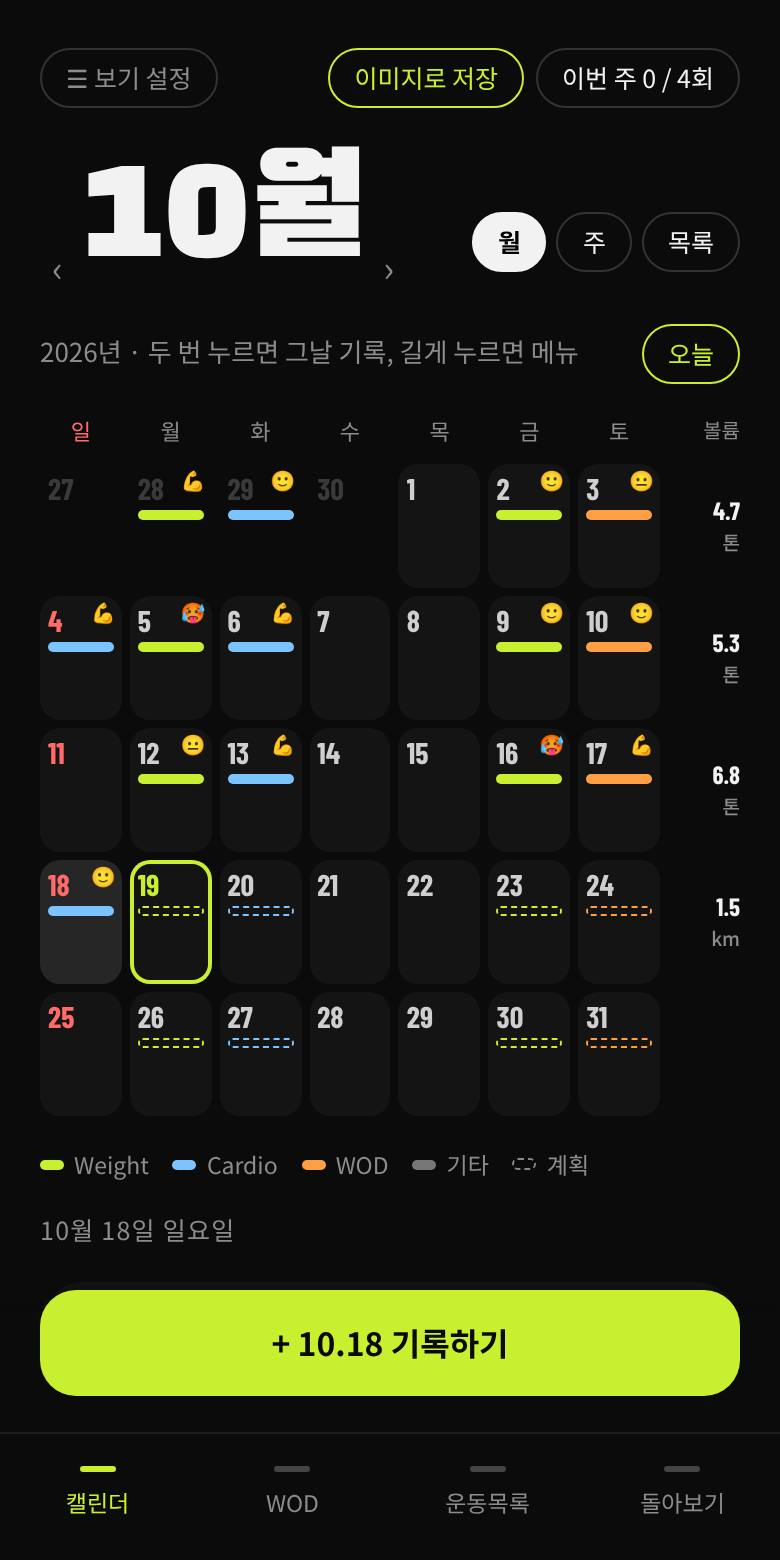
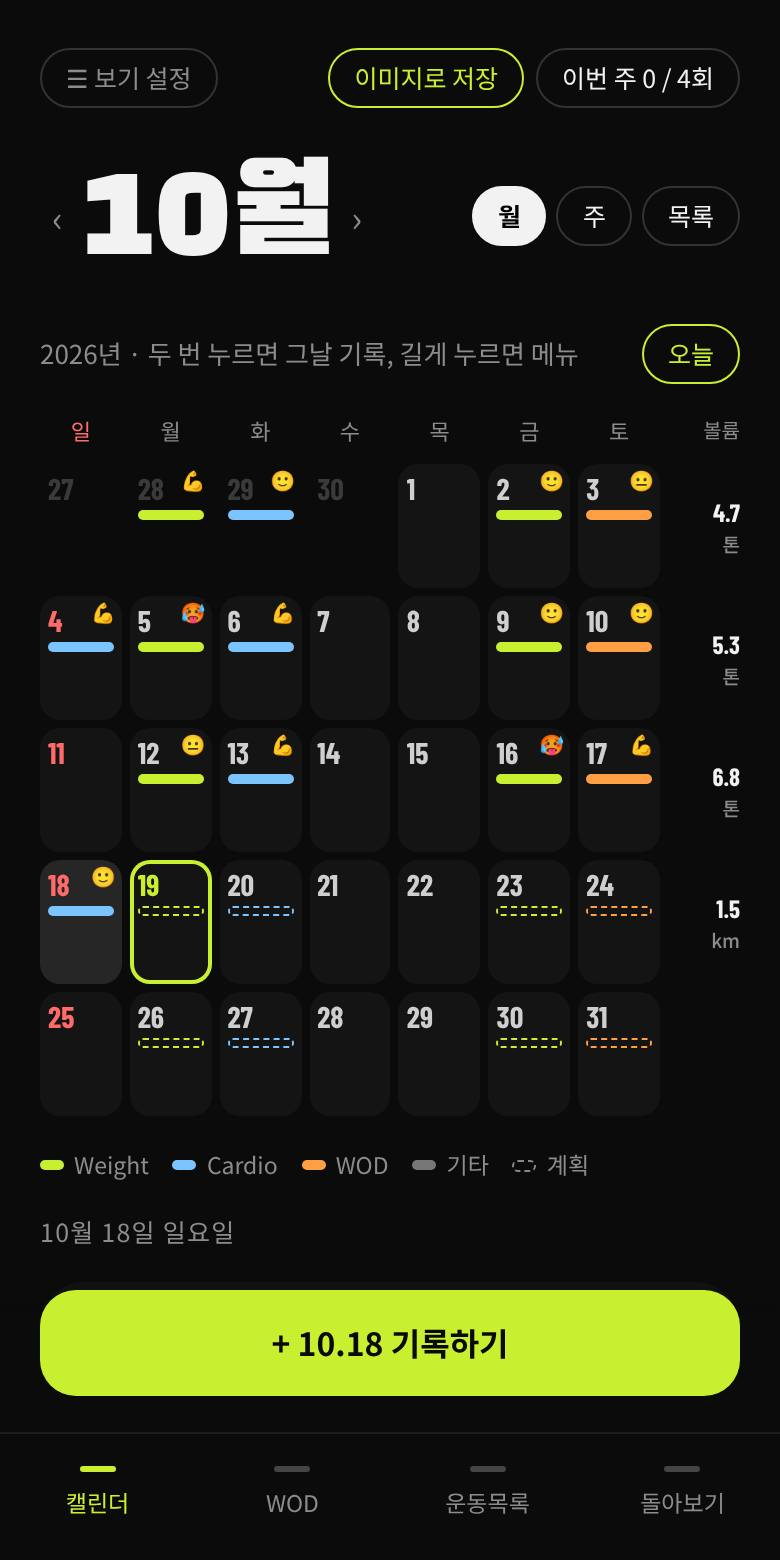
Calendar header: view buttons stay put across 월/주/목록; arrows centered on the title
Claude-Session: https://claude.ai/code/session_019eoxjeUYsC1xCLQy9vy9QX

diff --git a/index.html b/index.html
@@ -181,6 +181,9 @@ textarea.inp{resize:vertical;min-height:70px;line-height:1.6}
 .chk.on{background:var(--lime);border-color:var(--lime)}
 .snsprev{display:flex;gap:10px;overflow-x:auto;padding-bottom:4px}
 .snsprev img{width:70%;max-width:260px;flex-shrink:0;border-radius:12px;border:1px solid #2a2a2a}
+.calhead{display:flex;align-items:center;justify-content:space-between;gap:8px;height:76px}
+.calhead h1{line-height:1}
+.calhead .viewsw{flex-shrink:0;margin-left:auto}
 .vline{display:flex;align-items:baseline;gap:8px;margin-top:10px;padding-top:10px;border-top:1px solid var(--line)}
 .vline.lime{border-top-color:rgba(0,0,0,.15)}.vline.lime .eb,.vline.lime .unit{color:var(--lime-sub)}
 .card.list .vline{padding:12px 0 10px;margin-top:0}
@@ -861,9 +864,9 @@ function viewCal() {
   }
   const sel = parseYmd(ui.sel), ev = entriesOn(ui.sel);
   return `<div class="row between"><button class="pill ghost" data-action="cat-filter" aria-label="카테고리와 목표 설정">☰ 보기 설정</button><div class="row" style="gap:6px"><button class="pill lime" data-action="sns-open">이미지로 저장</button><span class="pill">이번 주 ${wk.count} / ${state.goal}회</span></div></div>
-  <div class="row between" style="align-items:flex-end">
-    ${ui.view === 'list' ? '<h1 class="disp" style="font-size:64px">목록</h1>' : `<div class="row" style="align-items:flex-end;gap:2px"><button class="icon" data-action="month" data-v="-1" aria-label="이전">‹</button><h1 class="disp" style="font-size:${ui.view === 'week' ? 40 : 72}px;white-space:nowrap">${ui.view === 'week' ? `${sel.getMonth()+1}월 ${Math.ceil((sel.getDate() + new Date(sel.getFullYear(), sel.getMonth(), 1).getDay()) / 7)}주` : `${vm}월`}</h1><button class="icon" data-action="month" data-v="1" aria-label="다음">›</button></div>`}
-    <div class="row" style="gap:5px;padding-bottom:10px">${[['month','월'],['week','주'],['list','목록']].map(([k, l]) => `<button class="pill" aria-pressed="${ui.view === k}" data-action="view" data-v="${k}">${l}</button>`).join('')}</div>
+  <div class="calhead">
+    ${ui.view === 'list' ? '<h1 class="disp" style="font-size:56px">목록</h1>' : `<div class="row" style="align-items:center;gap:2px;min-width:0"><button class="icon" data-action="month" data-v="-1" aria-label="이전">‹</button><h1 class="disp" style="font-size:${ui.view === 'week' ? 40 : 64}px;white-space:nowrap;line-height:1">${ui.view === 'week' ? `${sel.getMonth()+1}월 ${Math.ceil((sel.getDate() + new Date(sel.getFullYear(), sel.getMonth(), 1).getDay()) / 7)}주` : `${vm}월`}</h1><button class="icon" data-action="month" data-v="1" aria-label="다음">›</button></div>`}
+    <div class="row viewsw" style="gap:5px">${[['month','월'],['week','주'],['list','목록']].map(([k, l]) => `<button class="pill" aria-pressed="${ui.view === k}" data-action="view" data-v="${k}">${l}</button>`).join('')}</div>
   </div>
   <div class="row between"><span class="sub">${vy}년 · 두 번 누르면 그날 기록, 길게 누르면 메뉴</span><button class="pill lime" data-action="go-today">오늘</button></div>
   ${body}

diff --git a/sw.js b/sw.js
@@ -1,4 +1,4 @@
-const C = 'setlog-1792376769383';
+const C = 'setlog-1792380039462';
 const CORE = ['./', 'index.html', 'manifest.webmanifest', 'icon-192.png', 'icon-512.png', 'apple-touch-icon.png', 'guide/1.jpg', 'guide/2.jpg', 'guide/3.jpg', 'guide/4.jpg', 'guide/5.jpg'];
 self.addEventListener('install', e => { e.waitUntil(caches.open(C).then(c => c.addAll(CORE)).then(() => self.skipWaiting())); });
 self.addEventListener('activate', e => { e.waitUntil(caches.keys().then(ks => Promise.all(ks.filter(k => k !== C).map(k => caches.delete(k)))).then(() => self.clients.claim())); });
